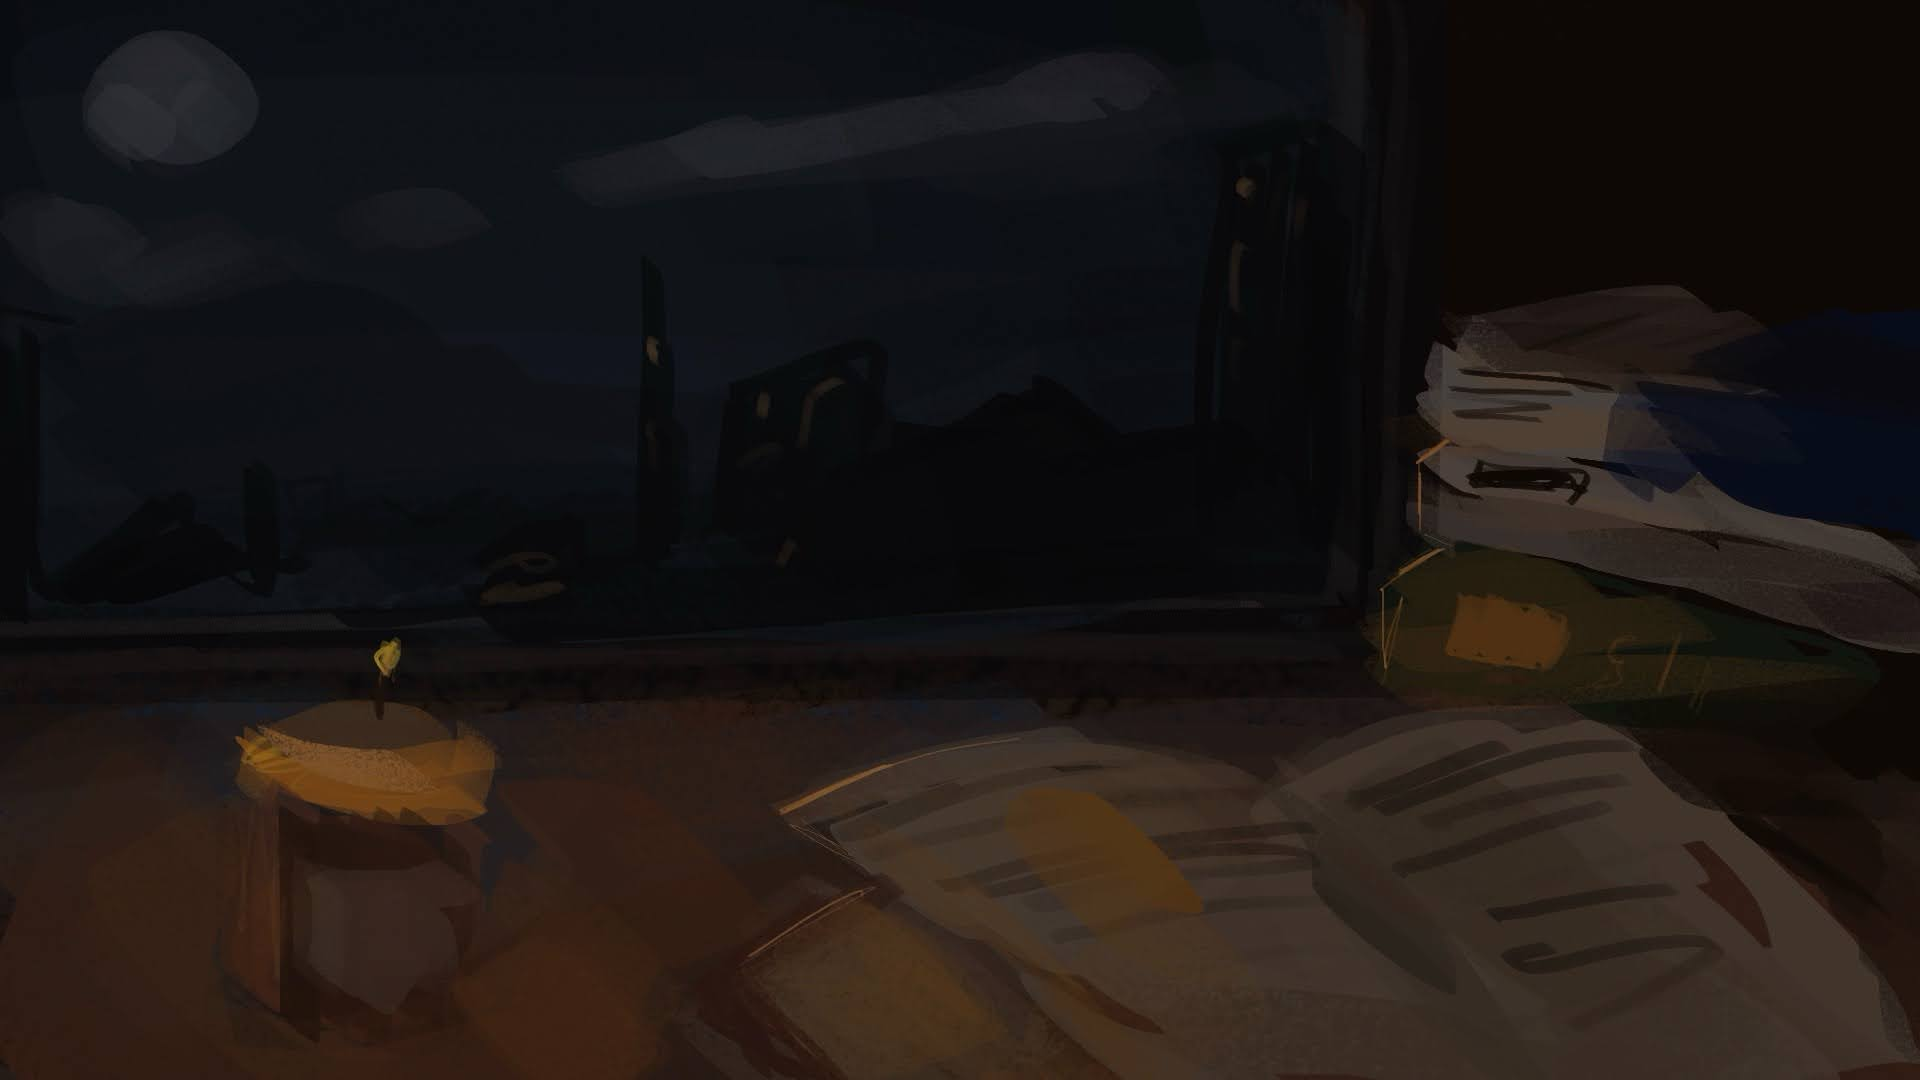
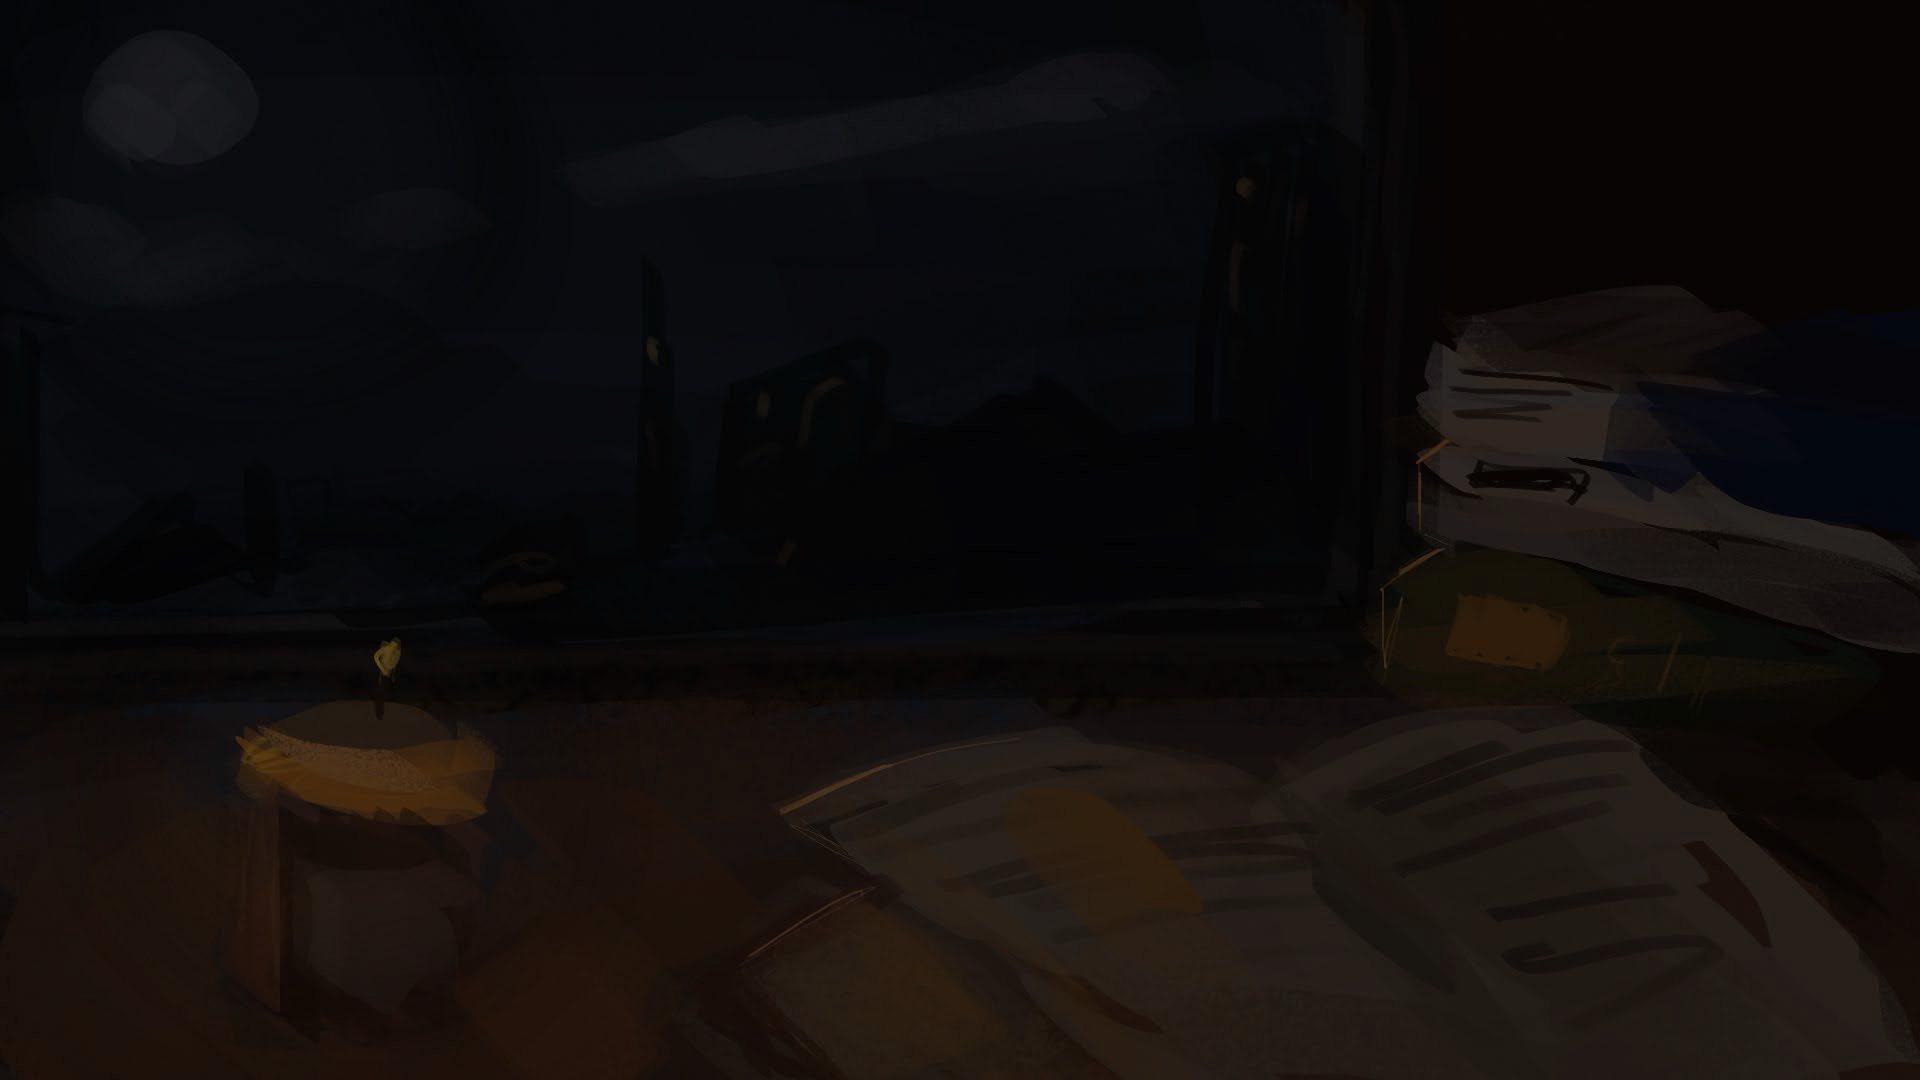
Add dark-mode and style text. Cannot fix issues with opacity and printing, though

diff --git a/script.js b/script.js
@@ -25,17 +25,37 @@ function printText(){
     if(counter < parsedText.length){
         if(counter ==0){
             p0.textContent = parsedText[0].slice(3,parsedText[counter].length);
+            p0.classList.add("currentText");
         } else {
             if(parsedText[counter].slice(0,4) == "</p>") {
                 currentPara++;
                 let paragraph = paragraphs[`p${currentPara}`];
+                paragraph.classList.add("currentText");
                 paragraph.textContent += parsedText[counter].slice(8, parsedText[counter].length);
             } else {
                 let paragraph = paragraphs[`p${currentPara}`];
                 paragraph.textContent += parsedText[counter];
+                paragraph.classList.add("currentText");
             }
         }
         counter++;
+
+        if(paragraphs[counter - 1] && paragraphs[counter - 1].classList.contains("currentText") && paragraphs[counter].classList.contains("currentText")) {
+            console.log("free me");
+            paragraphs[`p${counter - 1}`].classList.remove("currentText");
+        } else if(!paragraphs[counter - 1]) {
+            console.log("paragraphs[counter-1] doesn't exist")
+            console.log(counter);
+        } else if(!paragraphs[counter - 1].classList.contains("currentText")){
+            console.log("currentText isn't attached to old para");
+        } else if(!paragraphs[counter].classList.contains("currentText")) {
+            console.log("currentText isn't attached to current para");
+        }
+
+        /*if (paragraphs[`p${counter - 1}`] && paragraphs[`p${counter - 1}`].classList.contains("currentText")) {
+            console.log("meow");
+            paragraphs[`p${counter - 1}`].classList.remove("currentText");
+        }*/
 
     } else {
         clearInterval(intervalId);
@@ -55,7 +75,7 @@ function printText(){
 
 function startPrinting() {
     if (intervalId === null){
-        intervalId = setInterval(printText, 500); //?
+        intervalId = setInterval(printText, 1500); //?
     }
 }
 

diff --git a/styles.css b/styles.css
@@ -1,7 +1,28 @@
 .text {
-    color: rgb(248, 240, 238);
+    color: rgba(248, 240, 238, 0.5);
+    font-family:'Courier New', Courier, monospace;
+    font-size: 35px;
 }
 
-body {
-    background-image: url("./dark-mode.jpg");
+.p {
+    padding: 15px;
+}
+
+.title {
+    font-size: 45px;
+    color: rgb(248, 240, 238);
+    padding-left: 15px;
+}
+
+html {
+    background: url(./dark-mode.jpg) no-repeat left center fixed;
+    -webkit-background-size: cover;
+    -moz-background-size: cover;
+    -o-background-size: cover;
+    background-size: cover;
+}
+
+.currentText {
+    color: rgb(248, 240, 238);
+    font-size: 37px;
 }

diff --git a/index.html b/index.html
@@ -8,6 +8,6 @@
     <script src="script.js" defer></script>
 </head>
 <body>
-    <p>give him a second</p>
+    <p class = "title text">chapter title</p>
 </body>
 </html>
